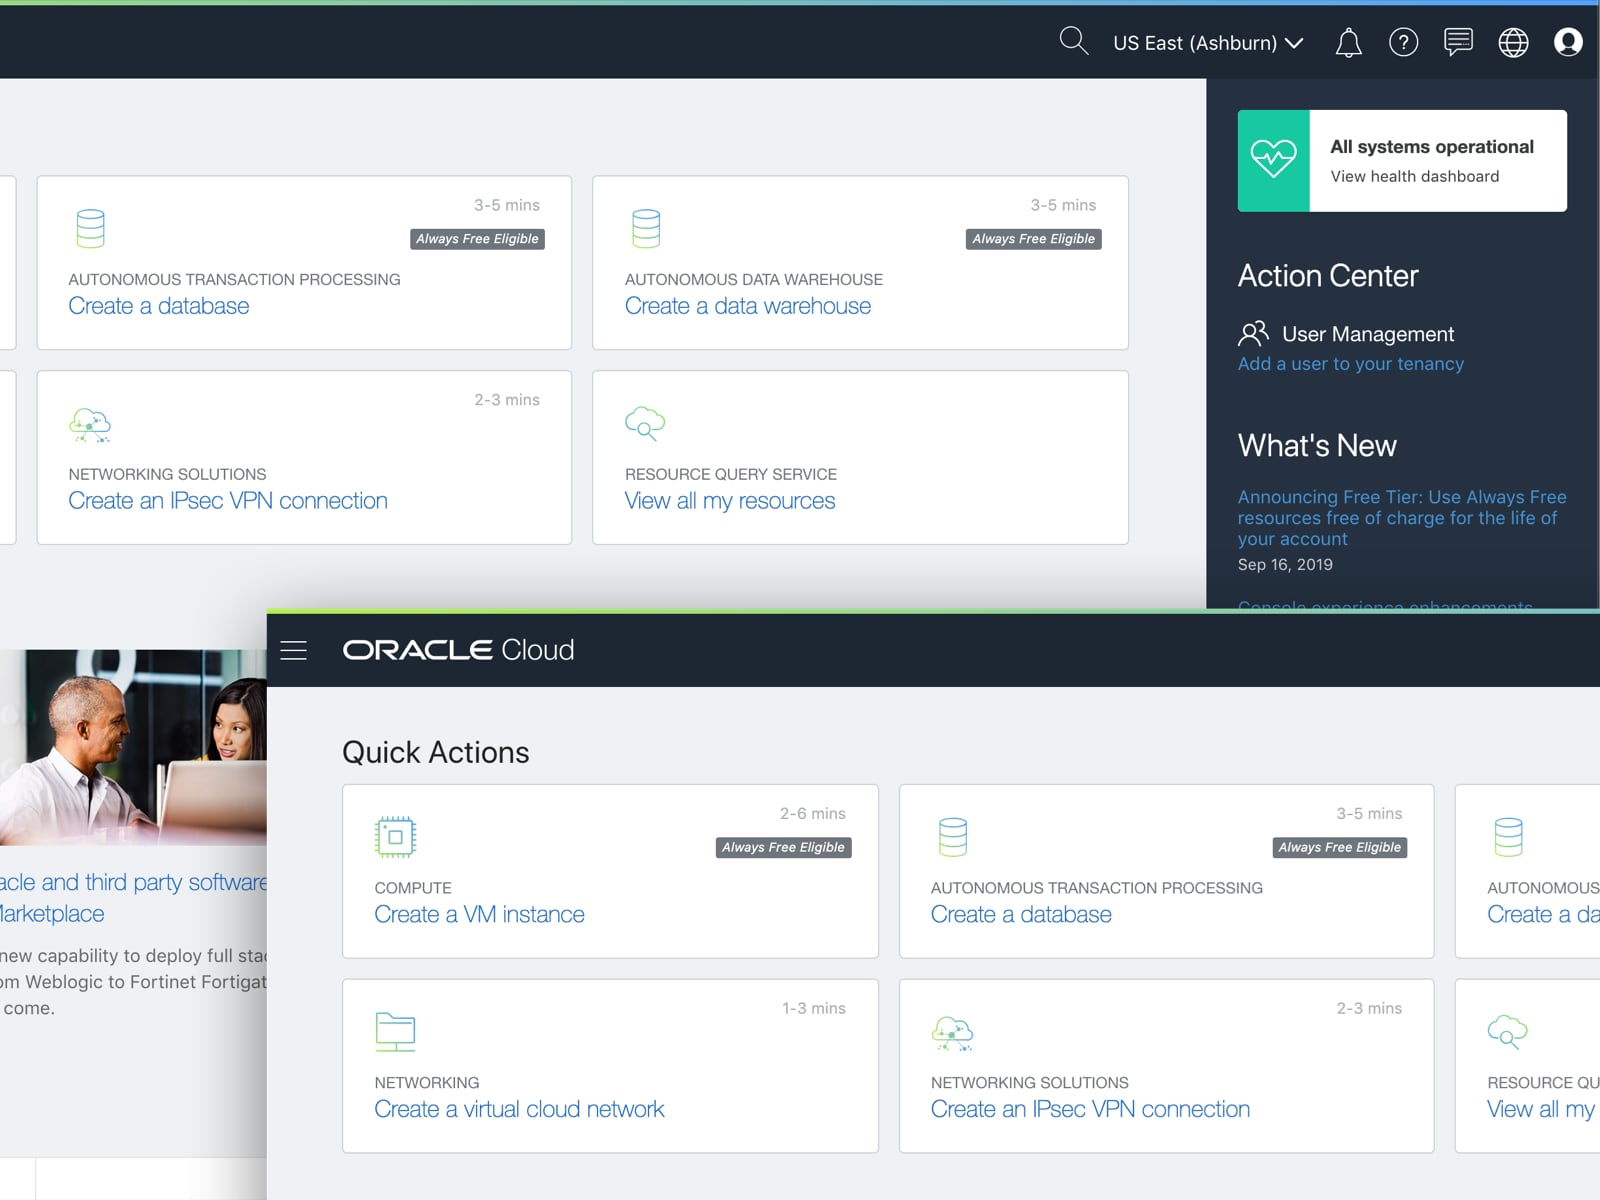
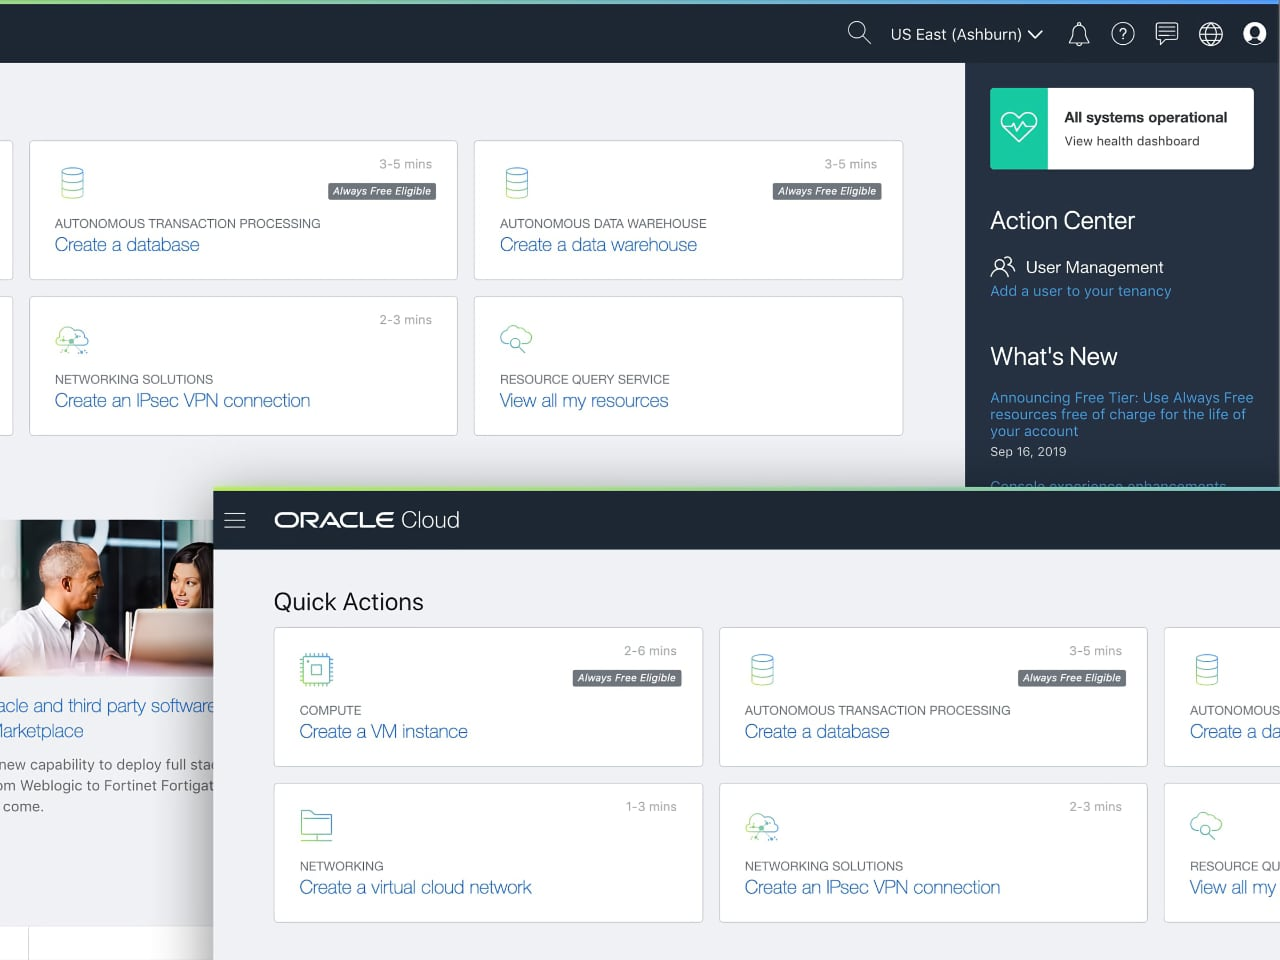
reducing image sizes

diff --git a/dist/static/css/app.bf3c97c5c639c55b0a37af879081aff3.css b/dist/static/css/app.bf3c97c5c639c55b0a37af879081aff3.css
@@ -1,0 +1,2 @@
+/*! normalize.css v8.0.1 | MIT License | github.com/necolas/normalize.css */html{line-height:1.15;-webkit-text-size-adjust:100%}body{margin:0}main{display:block}h1{font-size:2em;margin:.67em 0}hr{-webkit-box-sizing:content-box;box-sizing:content-box;height:0;overflow:visible}pre{font-family:monospace,monospace;font-size:1em}a{background-color:transparent}abbr[title]{border-bottom:none;text-decoration:underline;-webkit-text-decoration:underline dotted;text-decoration:underline dotted}b,strong{font-weight:bolder}code,kbd,samp{font-family:monospace,monospace;font-size:1em}small{font-size:80%}sub,sup{font-size:75%;line-height:0;position:relative;vertical-align:baseline}sub{bottom:-.25em}sup{top:-.5em}img{border-style:none}button,input,optgroup,select,textarea{font-family:inherit;font-size:100%;line-height:1.15;margin:0}button,input{overflow:visible}button,select{text-transform:none}[type=button],[type=reset],[type=submit],button{-webkit-appearance:button}[type=button]::-moz-focus-inner,[type=reset]::-moz-focus-inner,[type=submit]::-moz-focus-inner,button::-moz-focus-inner{border-style:none;padding:0}[type=button]:-moz-focusring,[type=reset]:-moz-focusring,[type=submit]:-moz-focusring,button:-moz-focusring{outline:1px dotted ButtonText}fieldset{padding:.35em .75em .625em}legend{-webkit-box-sizing:border-box;box-sizing:border-box;color:inherit;display:table;max-width:100%;padding:0;white-space:normal}progress{vertical-align:baseline}textarea{overflow:auto}[type=checkbox],[type=radio]{-webkit-box-sizing:border-box;box-sizing:border-box;padding:0}[type=number]::-webkit-inner-spin-button,[type=number]::-webkit-outer-spin-button{height:auto}[type=search]{-webkit-appearance:textfield;outline-offset:-2px}[type=search]::-webkit-search-decoration{-webkit-appearance:none}::-webkit-file-upload-button{-webkit-appearance:button;font:inherit}details{display:block}summary{display:list-item}[hidden],template{display:none}body{font-family:Open Sans,sans-serif;font-weight:400;color:#000;line-height:1.6em}h1,h2,h3,h4,h5,h6{font-family:Playfair Display,serif;font-weight:400;line-height:2.4rem}.mm-container{position:relative;display:-webkit-box;display:-ms-flexbox;display:flex;-webkit-box-pack:center;-ms-flex-pack:center;justify-content:center;padding:0 48px;max-width:1280px;margin:0 auto}.mm-container>div{-webkit-box-flex:1;-ms-flex:1;flex:1}p a{color:#000;font-weight:700;text-decoration:underline}@media screen and (max-width:960px){.mm-container{padding:0 24px}}.fade-enter-active,.fade-enter-to,.fade-leave,.fade-leave-active{-webkit-transition:all .3s ease-out;transition:all .3s ease-out}.fade-enter,.fade-leave-to{margin-top:50px;opacity:0}#navigation[data-v-6a2f5c9c]{background:#fff;padding:44px;font-family:Playfair Display,serif}ul[data-v-6a2f5c9c]{margin:0;padding:0;list-style:none;display:-webkit-box;display:-ms-flexbox;display:flex;position:absolute;top:36px;right:48px;font-size:1.25rem;-webkit-box-sizing:border-box;box-sizing:border-box}li[data-v-6a2f5c9c]{padding:12px}a[data-v-6a2f5c9c]{outline:none;display:inline-block;position:relative;color:#000;text-decoration:none}a[data-v-6a2f5c9c]:after{content:"";background:none;position:absolute;left:0;width:100%;height:95%;border-bottom:2px solid #fff;-webkit-transition:all .2s ease-in-out;transition:all .2s ease-in-out}a[data-v-6a2f5c9c]:focus:after,a[data-v-6a2f5c9c]:hover:after{content:"";height:110%;border-bottom:2px solid #000}@media screen and (max-width:480px){#navigation[data-v-6a2f5c9c]{padding:24px;margin-bottom:24px}ul[data-v-6a2f5c9c]{position:relative;display:block;right:auto;top:24px}li[data-v-6a2f5c9c]{padding:12px 0}a[data-v-6a2f5c9c]:hover:after{pointer-events:none!important}}footer[data-v-5b1679fe]{padding:60px}ul[data-v-5b1679fe]{margin:0;padding:0;list-style:none}li[data-v-5b1679fe]{display:-webkit-inline-box;display:-ms-inline-flexbox;display:inline-flex;margin:4px}.mm-container[data-v-927930aa]{height:360px}.role_1[data-v-927930aa]{-webkit-animation:role1-data-v-927930aa;animation:role1-data-v-927930aa}.role_2[data-v-927930aa]{-webkit-animation:role2-data-v-927930aa;animation:role2-data-v-927930aa}.role_1[data-v-927930aa],.role_2[data-v-927930aa]{overflow:hidden;width:0;white-space:nowrap;display:-webkit-inline-box;display:-ms-inline-flexbox;display:inline-flex;position:relative;-webkit-animation-delay:1s;animation-delay:1s;-webkit-animation-duration:12s;animation-duration:12s;-webkit-animation-timing-function:steps(25);animation-timing-function:steps(25);-webkit-animation-iteration-count:infinite;animation-iteration-count:infinite}h1 span[data-v-927930aa]:after{content:"_";position:absolute;right:-2px;-webkit-animation:caret-data-v-927930aa infinite;animation:caret-data-v-927930aa infinite;-webkit-animation-duration:1s;animation-duration:1s;-webkit-animation-timing-function:steps(1);animation-timing-function:steps(1)}h1[data-v-927930aa]{line-height:1.2em;display:inline-block;font-size:3rem;text-align:center;padding:100px 0;top:0}@-webkit-keyframes role2-data-v-927930aa{0%,50%,to{width:0}60%,90%{width:7.8em}}@keyframes role2-data-v-927930aa{0%,50%,to{width:0}60%,90%{width:7.8em}}@-webkit-keyframes role1-data-v-927930aa{0%,50%,to{width:0}10%,40%{width:8.3em}}@keyframes role1-data-v-927930aa{0%,50%,to{width:0}10%,40%{width:8.3em}}@-webkit-keyframes caret-data-v-927930aa{0%,to{opacity:0}50%{opacity:1}}@keyframes caret-data-v-927930aa{0%,to{opacity:0}50%{opacity:1}}@media screen and (max-width:480px){.mm-container[data-v-927930aa]{height:200px}h1[data-v-927930aa]{font-size:160%}}#work[data-v-78b2b4c8]{padding-top:56px}.grid-container[data-v-78b2b4c8]{display:grid;grid-template-columns:repeat(2,1fr)}@media screen and (max-width:960px){.grid-container[data-v-78b2b4c8]{grid-template-columns:repeat(1,1fr)}}.card-title h2[data-v-1c3a6554]{font-family:Open Sans,sans-serif;font-weight:400;font-size:1em;opacity:.6;text-align:center;line-height:1.6em}a[data-v-1c3a6554]{text-decoration:none;color:#000}.work-card-container[data-v-1c3a6554]{outline:none;display:-webkit-box;display:-ms-flexbox;display:flex;width:100%}.work-card[data-v-1c3a6554]{position:relative;overflow:hidden;-webkit-box-flex:1;-ms-flex:1;flex:1;-webkit-box-sizing:border-box;box-sizing:border-box;margin:10px;height:500px;display:-webkit-box;display:-ms-flexbox;display:flex;-webkit-box-orient:vertical;-webkit-box-direction:normal;-ms-flex-direction:column;flex-direction:column;-webkit-box-align:center;-ms-flex-align:center;align-items:center;-webkit-box-pack:center;-ms-flex-pack:center;justify-content:center;background-size:cover}.card-title[data-v-1c3a6554]{position:absolute;display:block;margin-top:20px;text-align:center}.card-preview[data-v-1c3a6554],.card-title[data-v-1c3a6554]{-webkit-transition:all .3s ease-in-out;transition:all .3s ease-in-out}.card-preview[data-v-1c3a6554]{background-position:50%;background-size:cover!important;width:100%;max-width:450px;height:210px;bottom:-332px;position:relative}.work-card-container.active .card-title[data-v-1c3a6554],.work-card-container:focus .card-title[data-v-1c3a6554],.work-card-container:hover .card-title[data-v-1c3a6554]{margin-top:-44px}.work-card-container.active .card-preview[data-v-1c3a6554],.work-card-container:focus .card-preview[data-v-1c3a6554],.work-card-container:hover .card-preview[data-v-1c3a6554]{bottom:-150px}.work-card-container.active[data-v-1c3a6554]{cursor:default}.work-card-container.active .work-card[data-v-1c3a6554]{margin:0}@media screen and (max-width:960px){.work-card[data-v-1c3a6554]{margin:10px 0;padding:24px}.card-preview[data-v-1c3a6554]{background-size:100%;left:0;margin:0 auto}}@media screen and (max-width:480px){.card-title img[data-v-1c3a6554]{max-width:80%}.work-card-container .card-title[data-v-1c3a6554]{margin-top:-44px!important}.work-card-container .card-preview[data-v-1c3a6554]{bottom:-150px!important}}.link[data-v-59c3c528]{display:inline;position:absolute;z-index:10;background:#fff;padding:8px 16px;border-radius:100px;right:80px;top:24px;font-size:.8em;color:#000;text-decoration:none}.link[data-v-59c3c528]:after{content:url(/static/icons/icon-external.svg);width:24px;height:24px;vertical-align:middle;margin-left:8px;margin-top:3px;display:inline-block}.spacer[data-v-59c3c528]{padding:16px 0}.mm-container[data-v-59c3c528]{max-width:768px}.mm-header[data-v-59c3c528]{max-width:1280px}@media screen and (max-width:480px){.link[data-v-59c3c528]{left:auto;right:auto;margin:0 auto;top:44px}}small[data-v-9eb13640]{display:block;text-align:center;opacity:.6;padding:24px 0 0}
+/*# sourceMappingURL=app.bf3c97c5c639c55b0a37af879081aff3.css.map */

diff --git a/dist/static/js/app.6f5f7fe553058fbe3ea3.js b/dist/static/js/app.6f5f7fe553058fbe3ea3.js
@@ -1,0 +1,2 @@
+webpackJsonp([1],{"+Khh":function(t,e){},"+j/a":function(t,e){},BqXt:function(t,e){},H02k:function(t,e){},Jswg:function(t,e){},NHnr:function(t,e,a){"use strict";Object.defineProperty(e,"__esModule",{value:!0});var r=a("7+uW"),o={render:function(){var t=this.$createElement,e=this._self._c||t;return e("nav",{staticClass:"mm-container",attrs:{id:"navigation"}},[e("div",[e("img",{attrs:{src:"/static/marizmelo-logo.svg"}}),this._v(" "),e("ul",[e("li",[e("router-link",{attrs:{to:"/"}},[this._v("Work")])],1),this._v(" "),this._m(0)])])])},staticRenderFns:[function(){var t=this.$createElement,e=this._self._c||t;return e("li",[e("a",{attrs:{href:"/static/mariz.pdf",target:"_blank"}},[this._v("Get in touch")])])}]};var n=a("VU/8")({name:"",data:function(){return{}}},o,!1,function(t){a("RoVU")},"data-v-6a2f5c9c",null).exports,i={render:function(){this.$createElement;this._self._c;return this._m(0)},staticRenderFns:[function(){var t=this.$createElement,e=this._self._c||t;return e("footer",{staticClass:"mm-container"},[e("ul",[e("li",[e("a",{attrs:{href:"https://www.linkedin.com/in/mariz-melo-33111131/",target:"_blank"}},[e("img",{attrs:{src:"/static/social/social-linkedin.svg"}})])]),this._v(" "),e("li",[e("a",{attrs:{href:"https://github.com/marizmelo",target:"_blank"}},[e("img",{attrs:{src:"/static/social/social-github.svg"}})])]),this._v(" "),e("li",[e("a",{attrs:{href:"https://dribbble.com/marizmelo",target:"_blank"}},[e("img",{attrs:{src:"/static/social/social-dribbble.svg"}})])]),this._v(" "),e("li",[e("a",{attrs:{href:"https://twitter.com/marizmelo",target:"_blank"}},[e("img",{attrs:{src:"/static/social/social-twitter.svg"}})])])])])}]};var s=a("VU/8")({name:"",data:function(){return{}}},i,!1,function(t){a("Jswg")},"data-v-5b1679fe",null).exports,c={components:{Navigation:n,Footer:s},name:"App"},l={render:function(){var t=this.$createElement,e=this._self._c||t;return e("div",{attrs:{id:"app"}},[e("Navigation"),this._v(" "),e("transition",{attrs:{name:"fade"}},[e("router-view")],1),this._v(" "),e("Footer")],1)},staticRenderFns:[]};var d=a("VU/8")(c,l,!1,function(t){a("hLku")},null,null).exports,u=a("/ocq"),v={name:"",props:{work:{},activate:Boolean},data:function(){return{logo:"",description:"",background:"",color:"",preview:"",location:""}},methods:{backgroundStyles:function(t,e,a){var r={"background-color":""+e,color:""+a};return t&&(r["background-image"]="url("+t+")"),r}}},p={render:function(){var t=this,e=t.$createElement,a=t._self._c||e;return a("router-link",{staticClass:"work-card-container",class:t.activate?"active":"",attrs:{to:"/work/"+t.work.location}},[a("div",{staticClass:"work-card",style:t.backgroundStyles(t.work.background,t.work.color,t.work.text)},[a("div",{staticClass:"card-title"},[a("img",{attrs:{src:t.work.logo,alt:t.work.description}}),t._v(" "),a("h2",[t._v(t._s(t.work.description))])]),t._v(" "),a("div",{staticClass:"card-preview",style:t.backgroundStyles(t.work.preview)})])])},staticRenderFns:[]};var h=a("VU/8")(v,p,!1,function(t){a("ZGXY")},"data-v-1c3a6554",null).exports,m=a("QkBs"),g=a.n(m),f={components:{WorkCard:h},name:"",data:function(){return{data:g.a}}},k={render:function(){var t=this.$createElement,e=this._self._c||t;return e("section",{attrs:{id:"work"}},[e("div",{staticClass:"mm-container"},[e("div",{staticClass:"grid-container"},this._l(this.data,function(t){return e("WorkCard",{key:t.location,attrs:{work:t}})}),1)])])},staticRenderFns:[]};var w={components:{Work:a("VU/8")(f,k,!1,function(t){a("H02k")},"data-v-78b2b4c8",null).exports},name:"",data:function(){return{}}},_={render:function(){var t=this.$createElement,e=this._self._c||t;return e("div",{attrs:{id:"homepage"}},[this._m(0),this._v(" "),e("Work")],1)},staticRenderFns:[function(){var t=this.$createElement,e=this._self._c||t;return e("div",{staticClass:"mm-container"},[e("h1",[this._v("Hello! I’m "),e("b",[this._v("Mariz Melo")]),this._v(" "),e("span",{staticClass:"role_1"},[this._v(", a product designer")]),e("span",{staticClass:"role_2"},[this._v(", a systems thinker")])])])}]};var b=a("VU/8")(w,_,!1,function(t){a("+Khh")},"data-v-927930aa",null).exports,C={render:function(){var t=this.$createElement;return(this._self._c||t)("div",{domProps:{innerHTML:this._s(this.content.content)}})},staticRenderFns:[]};var x={render:function(){var t=this.$createElement;return(this._self._c||t)("img",{attrs:{src:this.content.url,width:this.content.width||"100%",alt:this.content.alt}})},staticRenderFns:[]};var y={render:function(){var t=this.$createElement,e=this._self._c||t;return e("div",[e("iframe",{attrs:{width:"100%",height:this.content.height||400,src:this.content.url,frameborder:"0",allow:"accelerometer; autoplay; encrypted-media; gyroscope; picture-in-picture",allowfullscreen:""}}),this._v(" "),e("small",{staticClass:"caption"},[e("i",[this._v(this._s(this.content.caption))])])])},staticRenderFns:[]};var R={components:{WorkCard:h,TextContent:a("VU/8")({props:{content:{}},name:"TextContent",data:function(){return{}}},C,!1,function(t){a("cJoB")},"data-v-672e0b15",null).exports,Images:a("VU/8")({name:"",props:{content:{}},data:function(){return{}}},x,!1,function(t){a("BqXt")},"data-v-9f2015de",null).exports,Youtube:a("VU/8")({props:{content:{}},name:"Youtube",data:function(){return{}}},y,!1,function(t){a("RViA")},"data-v-9eb13640",null).exports,Footer:s},name:"",data:function(){return{data:{work:""}}},created:function(){var t=this;this.axios.get("/static/work/"+this.$route.params.id+"/data.json").then(function(e){t.data=e.data}).catch(function(t){})}},E={render:function(){var t=this,e=t.$createElement,a=t._self._c||e;return a("div",[a("div",{staticClass:"mm-container mm-header"},[t.data.work.url?a("a",{staticClass:"link",attrs:{href:t.data.work.url,target:"_blank"}},[t._v("Visit project")]):t._e(),t._v(" "),a("WorkCard",{attrs:{work:t.data.work,activate:!0}})],1),t._v(" "),a("div",{staticClass:"mm-container"},[a("div",{staticClass:"spacer"},t._l(t.data.components,function(t,e){return a(t.name,{key:e,tag:"component",staticClass:"spacer",attrs:{content:t.props}})}),1)])])},staticRenderFns:[]};var V=a("VU/8")(R,E,!1,function(t){a("+j/a")},"data-v-59c3c528",null).exports;r.a.use(u.a);var j=new u.a({routes:[{path:"/",name:"Homepage",component:b},{path:"/work/:id",name:"Work",component:V}],scrollBehavior:function(t,e,a){return{x:0,y:0}}}),F=a("mtWM"),$=a.n(F),U=a("Rf8U"),W=a.n(U);r.a.use(W.a,$.a),r.a.config.productionTip=!1,new r.a({el:"#app",router:j,components:{App:d},template:"<App/>"})},QkBs:function(t,e){t.exports=[{location:"oracle-com",logo:"/static/work/oracle-com/logo.svg",description:"Oracle corporate website",preview:"/static/work/oracle-com/preview.jpg",background:"/static/work/oracle-com/background.jpg",color:"#F0E8C9"},{location:"oracle-redwood",logo:"/static/work/oracle-redwood/logo.svg",description:"Oracle Redwood Design System",preview:"/static/work/oracle-redwood/preview.jpg",background:"/static/work/oracle-redwood/background.jpg",color:"#312D2A",text:"white"},{location:"oracle-cloud",logo:"/static/work/oracle-cloud/logo.svg",description:"Oracle Cloud Web Console",preview:"/static/work/oracle-cloud/preview.jpg",background:"/static/work/oracle-cloud/background.jpg",color:"#312D2A"},{location:"medallia-voices",logo:"/static/work/medallia-voices/logo.svg",description:"The voice of customers in the palm of your hands",preview:"/static/work/medallia-voices/preview.jpg",background:"",color:"#1D2C99",text:"white"},{location:"medallia-alchemy",logo:"/static/work/medallia-alchemy/logo.svg",description:"Medallia Experience Cloud advanced Design System",preview:"/static/work/medallia-alchemy/preview.jpg",background:"",color:"#4050C6",text:"white"},{location:"apple-watch",logo:"/static/work/apple-watch/logo.svg",description:"Apple Watch try-on campaign survey",preview:"/static/work/apple-watch/preview.jpg",background:"",color:"black",text:"white"}]},RViA:function(t,e){},RoVU:function(t,e){},ZGXY:function(t,e){},cJoB:function(t,e){},hLku:function(t,e){}},["NHnr"]);
+//# sourceMappingURL=app.6f5f7fe553058fbe3ea3.js.map

diff --git a/dist/index.html b/dist/index.html
@@ -1,1 +1,1 @@
-<!DOCTYPE html><html><head><meta charset=utf-8><meta data-rh=true name=robots content=index,follow><link rel=canonical href=https://mariz.io><meta property=og:site_name content="Mariz Melo"><meta property=og:title content="Mariz Melo - Product design, UX, UI, Frontend, Web applications, Mobile apps"><meta property=og:url content=https://mariz.io><meta property=og:type content=website><meta property=og:description content="Mariz Melo - personal website and portfolio online"><meta property=og:image content=https://mariz.io/static/mariz-social.jpg><meta itemprop=name content="Mariz Melo"><link rel=apple-touch-icon sizes=180x180 href=/static/icons/apple-touch-icon.png><link rel=icon type=image/png sizes=32x32 href=/static/icons/favicon-32x32.png><link rel=icon type=image/png sizes=16x16 href=/static/icons/favicon-16x16.png><link rel=manifest href=/static/icons/site.webmanifest><meta name=msapplication-config content=/static/icons/browserconfig.xml><meta name=msapplication-TileColor content=#ffffff><meta name=theme-color content=#ffffff><meta name=viewport content="width=device-width,initial-scale=1"><title>Mariz Melo - Product design, UX, UI, Frontend, Web applications, Mobile apps</title><link href=/static/css/app.5009fa625897e80c72459514d82b0db7.css rel=stylesheet></head><body><div id=app></div><script type=text/javascript src=/static/js/manifest.2ae2e69a05c33dfc65f8.js></script><script type=text/javascript src=/static/js/vendor.933b6a87393b23583c7f.js></script><script type=text/javascript src=/static/js/app.8539ebe4b3dd727edcd8.js></script></body></html>
+<!DOCTYPE html><html><head><meta charset=utf-8><meta data-rh=true name=robots content=index,follow><link rel=canonical href=https://mariz.io><meta property=og:site_name content="Mariz Melo"><meta property=og:title content="Mariz Melo - Product design, UX, UI, Frontend, Web applications, Mobile apps"><meta property=og:url content=https://mariz.io><meta property=og:type content=website><meta property=og:description content="Mariz Melo - personal website and portfolio online"><meta property=og:image content=https://mariz.io/static/mariz-social.jpg><meta itemprop=name content="Mariz Melo"><link rel=apple-touch-icon sizes=180x180 href=/static/icons/apple-touch-icon.png><link rel=icon type=image/png sizes=32x32 href=/static/icons/favicon-32x32.png><link rel=icon type=image/png sizes=16x16 href=/static/icons/favicon-16x16.png><link rel=manifest href=/static/icons/site.webmanifest><meta name=msapplication-config content=/static/icons/browserconfig.xml><meta name=msapplication-TileColor content=#ffffff><meta name=theme-color content=#ffffff><meta name=viewport content="width=device-width,initial-scale=1"><title>Mariz Melo - Product design, UX, UI, Frontend, Web applications, Mobile apps</title><link href=/static/css/app.bf3c97c5c639c55b0a37af879081aff3.css rel=stylesheet></head><body><div id=app></div><script type=text/javascript src=/static/js/manifest.2ae2e69a05c33dfc65f8.js></script><script type=text/javascript src=/static/js/vendor.933b6a87393b23583c7f.js></script><script type=text/javascript src=/static/js/app.6f5f7fe553058fbe3ea3.js></script></body></html>
